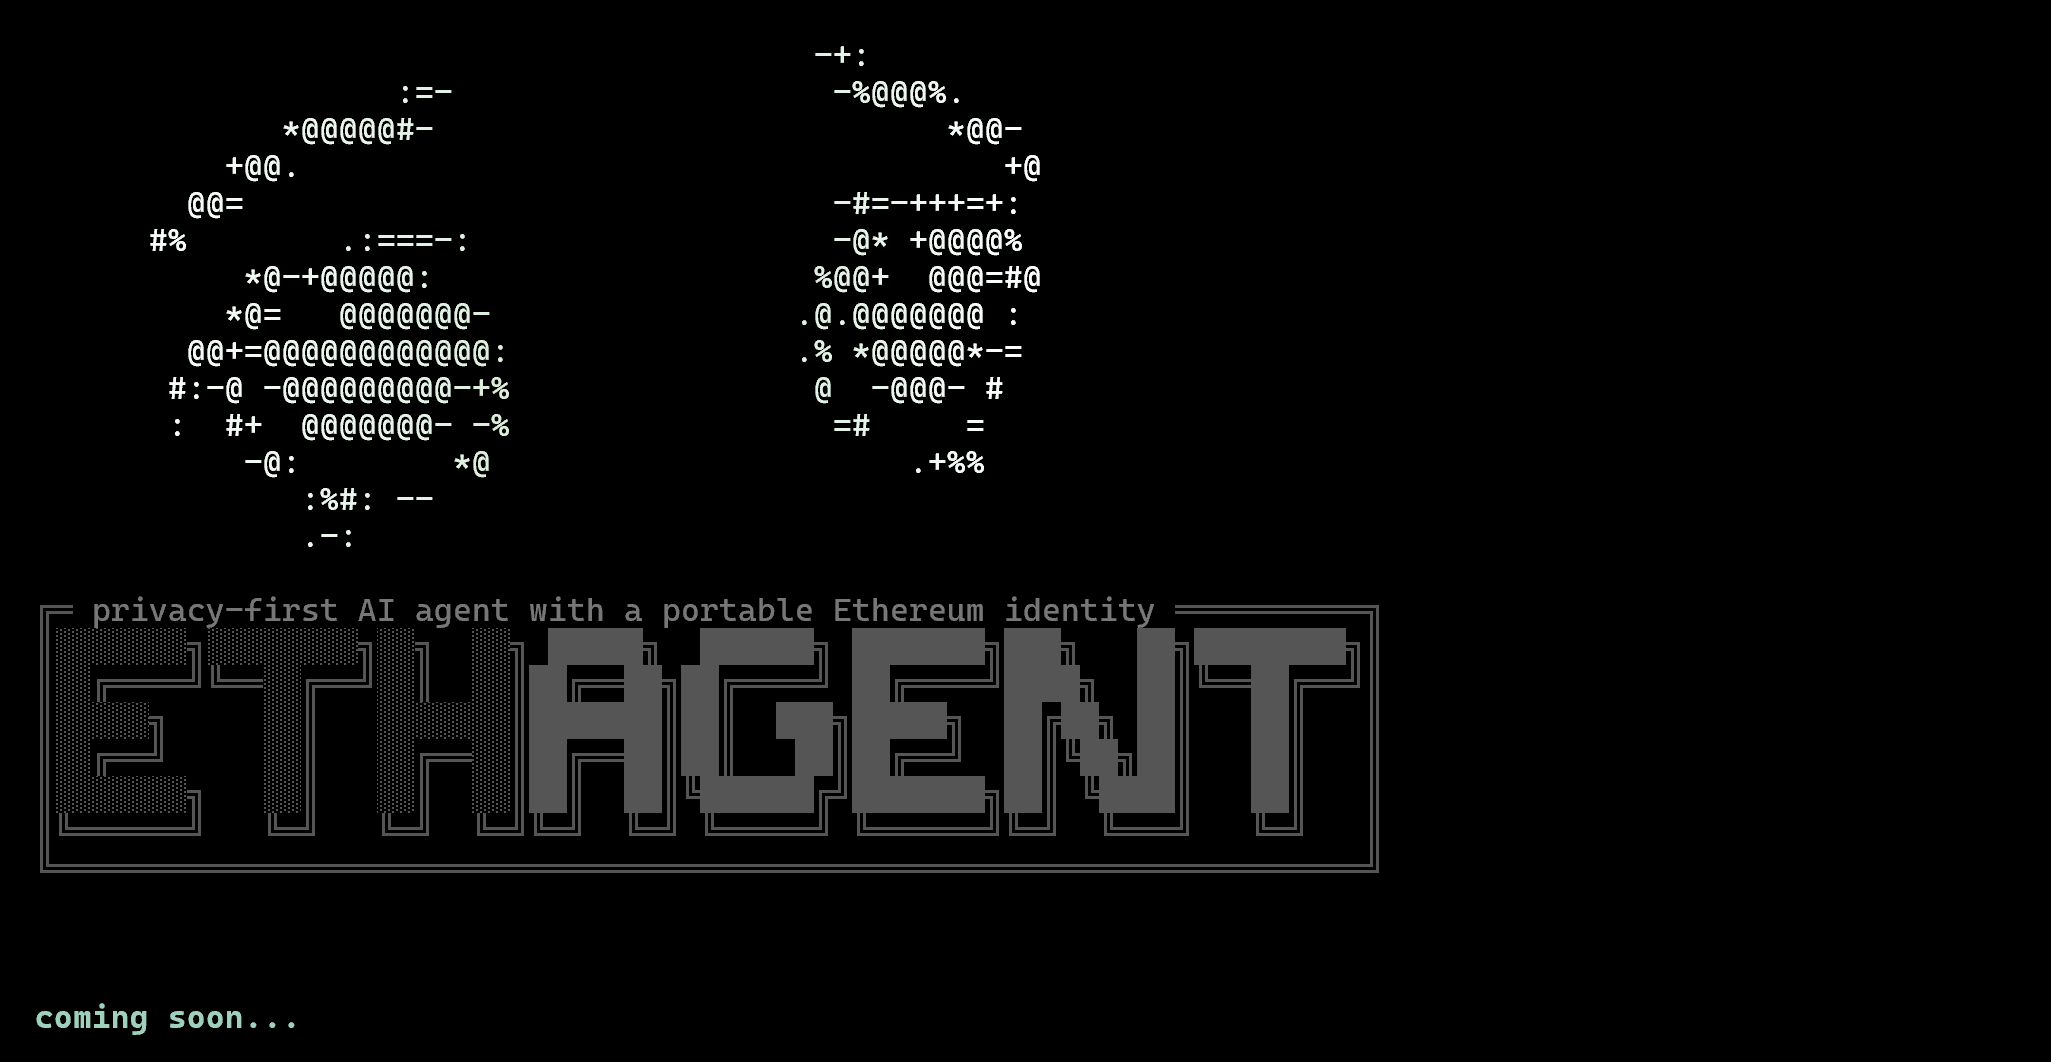
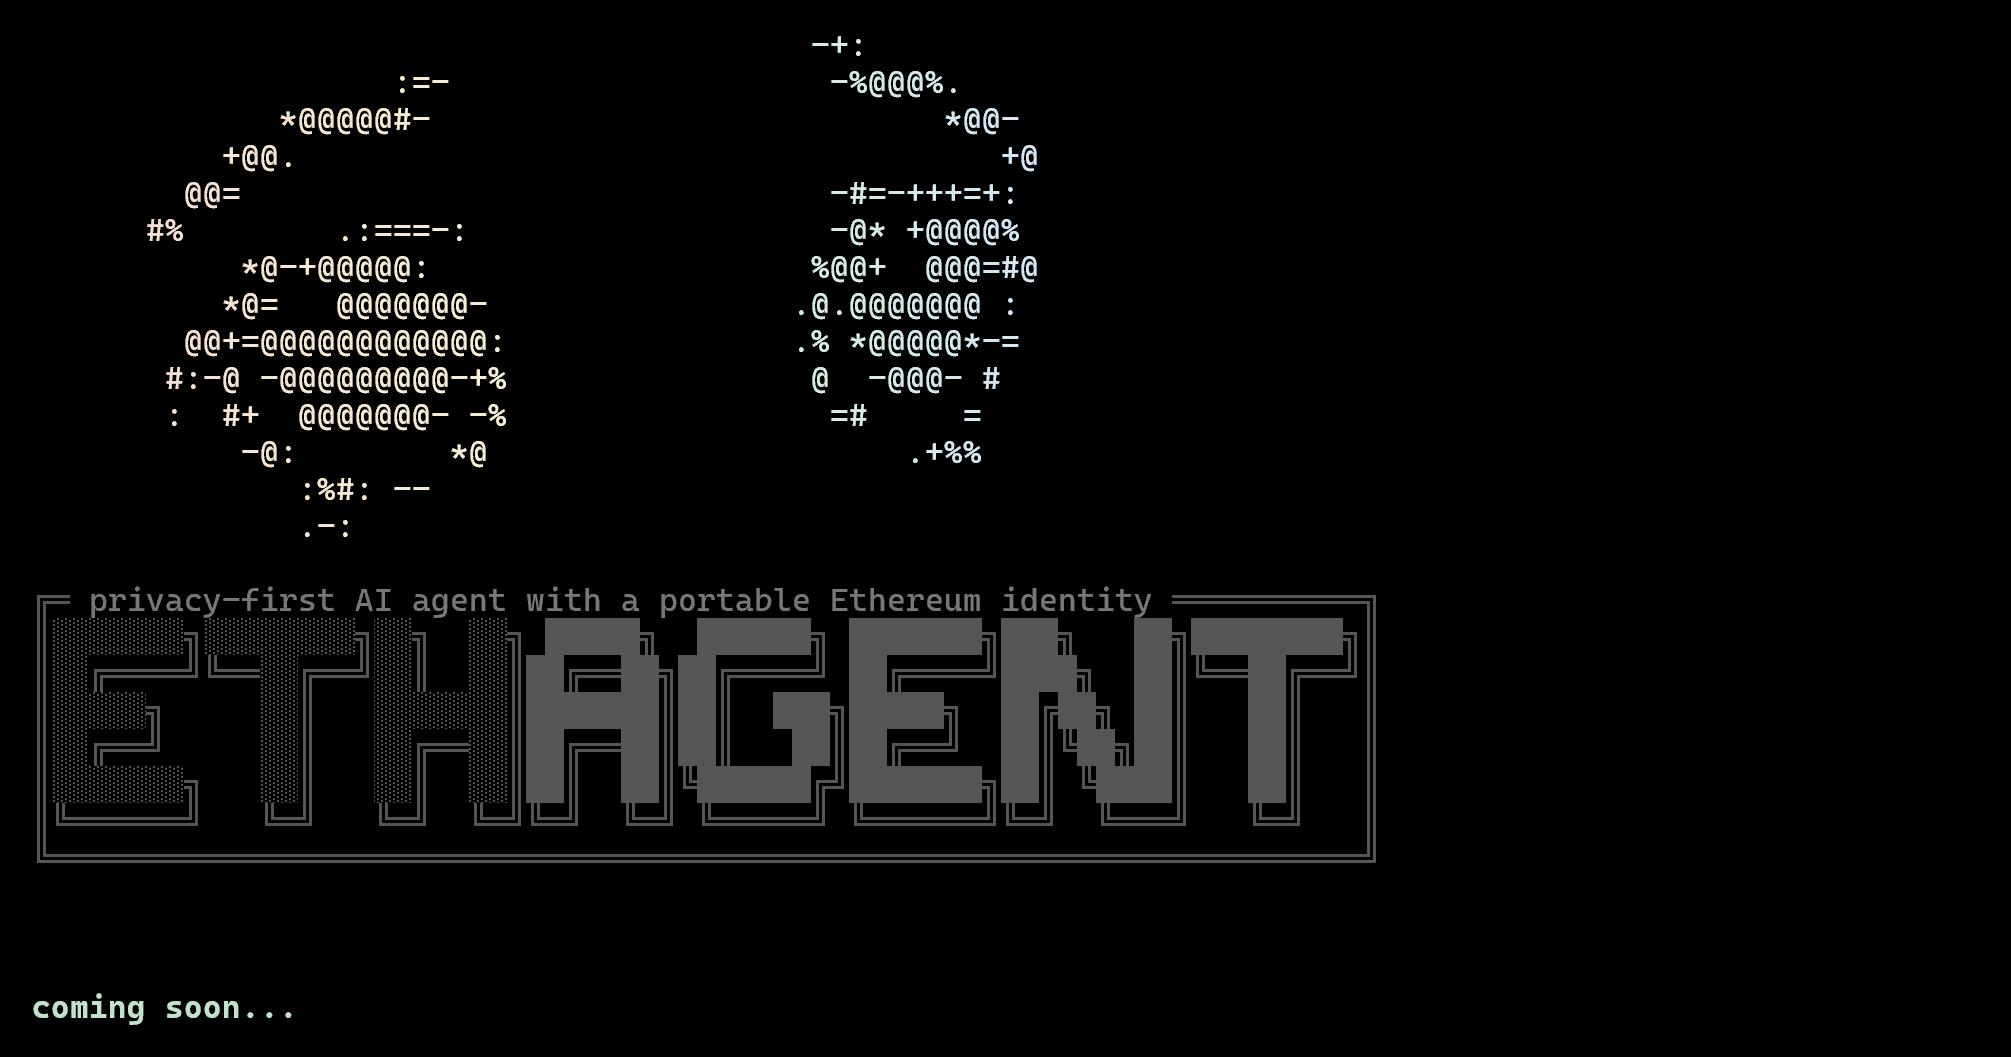
feat: add prompt queueing, shift+enter multiline input, and soften terminal theme

diff --git a/src/ui/ChatScreen.tsx b/src/ui/ChatScreen.tsx
@@ -62,6 +62,7 @@ export const ChatScreen: React.FC<ChatScreenProps> = ({ config: initialConfig, o
   const [rows, setRows] = useState<MessageRow[]>([])
   const [history, setHistory] = useState<string[]>([])
   const [streaming, setStreaming] = useState(false)
+  const [queuedInputs, setQueuedInputs] = useState<string[]>([])
   const [turns, setTurns] = useState(0)
   const [approxTokens, setApproxTokens] = useState(0)
   const [overlay, setOverlay] = useState<Overlay>('none')
@@ -83,6 +84,7 @@ export const ChatScreen: React.FC<ChatScreenProps> = ({ config: initialConfig, o
   const pendingAssistantTextRef = useRef<string | null>(null)
   const pendingThinkingTextRef = useRef<string | null>(null)
   const streamFlushTimerRef = useRef<ReturnType<typeof setTimeout> | null>(null)
+  const drainingQueueRef = useRef<boolean>(false)
 
   useEffect(() => { rowsRef.current = rows }, [rows])
   useEffect(() => { sessionIdRef.current = sessionId }, [sessionId])
@@ -129,6 +131,7 @@ export const ChatScreen: React.FC<ChatScreenProps> = ({ config: initialConfig, o
     setRows([])
     setTurns(0)
     setApproxTokens(0)
+    setQueuedInputs([])
     sessionMessagesRef.current = []
     setSessionId(newSessionId())
     setSessionKey(k => k + 1)
@@ -451,6 +454,8 @@ export const ChatScreen: React.FC<ChatScreenProps> = ({ config: initialConfig, o
     [mode, pushNote, persistSessionMessage, runCompaction],
   )
 
+  const pullInFlight = pullsRef.current.size > 0
+
   const handleSubmit = useCallback(
     async (value: string) => {
       const trimmed = value.trim()
@@ -458,6 +463,15 @@ export const ChatScreen: React.FC<ChatScreenProps> = ({ config: initialConfig, o
 
       setHistory(h => (h[h.length - 1] === value ? h : [...h, value]))
       void appendHistory(value)
+
+      if (streaming || pullInFlight) {
+        if (parseSlash(value)) {
+          pushNote('slash commands cannot be queued. wait for the current task to finish.', 'dim')
+          return
+        }
+        setQueuedInputs(prev => [...prev, value])
+        return
+      }
 
       if (parseSlash(value)) {
         const ctx = buildSlashContext()
@@ -470,7 +484,7 @@ export const ChatScreen: React.FC<ChatScreenProps> = ({ config: initialConfig, o
 
       await runStream(value)
     },
-    [buildSlashContext, pushNote, runStream],
+    [buildSlashContext, pullInFlight, pushNote, runStream, streaming],
   )
 
   const handleCancelStream = useCallback(() => {
@@ -611,12 +625,23 @@ export const ChatScreen: React.FC<ChatScreenProps> = ({ config: initialConfig, o
     pushNote('copy cancelled.', 'dim')
   }, [pushNote])
 
-  const pullInFlight = pullsRef.current.size > 0
-  const busy = streaming || pullInFlight
+  const busy = pullInFlight
   const slashSuggestions = useMemo(getSlashSuggestions, [])
 
+  useEffect(() => {
+    if (streaming || pullInFlight || queuedInputs.length === 0 || drainingQueueRef.current) return
+    drainingQueueRef.current = true
+    const next = queuedInputs[0]
+    setQueuedInputs(prev => prev.slice(1))
+    void runStream(next!).finally(() => {
+      drainingQueueRef.current = false
+    })
+  }, [pullInFlight, queuedInputs, runStream, streaming])
+
   const contextLine = `${config.provider} · ${config.model} · ${compressHome(process.cwd())}`
-  const tipLine = 'tip: type /help to get started · alt+enter for newline'
+  const tipLine = streaming
+    ? 'tip: you can keep typing and press enter to queue the next message · shift+enter for newline'
+    : 'tip: type /help to get started · shift+enter for newline'
 
   const placeholderHints = useMemo(() => {
     if (streaming) return ['streaming… esc to cancel']
@@ -688,6 +713,7 @@ export const ChatScreen: React.FC<ChatScreenProps> = ({ config: initialConfig, o
             history={history}
             disabled={busy}
             placeholderHints={placeholderHints}
+            queuedMessages={queuedInputs}
             slashSuggestions={slashSuggestions}
             footerRight={footerRight}
           />
@@ -770,4 +796,3 @@ function formatBytes(bytes: number): string {
   const kb = bytes / 1024
   return `${kb.toFixed(0)}KB`
 }
-

diff --git a/src/ui/ChatInput.tsx b/src/ui/ChatInput.tsx
@@ -10,6 +10,7 @@ type PromptInputProps = {
   history: string[]
   disabled?: boolean
   placeholderHints?: string[]
+  queuedMessages?: string[]
   prefix?: string
   slashSuggestions?: Suggestion[]
   mode?: 'prompt' | 'bash'
@@ -21,13 +22,14 @@ const MAX_LENGTH = 32_768
 const PASTE_THRESHOLD_LINES = 2
 const PLACEHOLDER_ROTATE_MS = 8000
 
-type PasteRef = { id: number; lines: string[]; preview: string }
+type PasteRef = { id: number; lines: string[] }
 
 export const ChatInput: React.FC<PromptInputProps> = ({
   onSubmit,
   history,
   disabled,
   placeholderHints,
+  queuedMessages = [],
   prefix = '\u203a',
   slashSuggestions = [],
   mode = 'prompt',
@@ -88,7 +90,7 @@ export const ChatInput: React.FC<PromptInputProps> = ({
     }
     const id = nextPasteIdRef.current++
     const preview = `[Pasted text #${id} +${lines.length - 1} lines]`
-    pasteRefsRef.current.set(id, { id, lines, preview })
+    pasteRefsRef.current.set(id, { id, lines })
     insertText(preview)
   }, [insertText])
 
@@ -191,7 +193,7 @@ export const ChatInput: React.FC<PromptInputProps> = ({
       return
     }
     if (key.upArrow) {
-      if (value.includes('\n')) {
+      if (historyIndex === null && value.includes('\n')) {
         setBuffer(prev => ({ value: prev.value, cursor: moveVertical(prev.value, prev.cursor, -1) }))
         return
       }
@@ -211,7 +213,7 @@ export const ChatInput: React.FC<PromptInputProps> = ({
       return
     }
     if (key.downArrow) {
-      if (value.includes('\n')) {
+      if (historyIndex === null && value.includes('\n')) {
         setBuffer(prev => ({ value: prev.value, cursor: moveVertical(prev.value, prev.cursor, 1) }))
         return
       }
@@ -300,6 +302,22 @@ export const ChatInput: React.FC<PromptInputProps> = ({
           ))}
         </Box>
       ) : null}
+      {queuedMessages.length > 0 ? (
+        <Box marginLeft={2} flexDirection="column">
+          <Text color={theme.dim}>
+            {queuedMessages.length === 1 ? '1 message queued for next turn' : `${queuedMessages.length} messages queued for next turns`}
+          </Text>
+          {queuedMessages.slice(0, 3).map((message, i) => (
+            <Text key={`${i}-${message.slice(0, 24)}`}>
+              <Text color={theme.accentMint}>{i === 0 ? '» ' : '  '}</Text>
+              <Text color={theme.textSubtle}>{summarizeQueuedMessage(message)}</Text>
+            </Text>
+          ))}
+          {queuedMessages.length > 3 ? (
+            <Text color={theme.dim}>+{queuedMessages.length - 3} more</Text>
+          ) : null}
+        </Box>
+      ) : null}
       {footerRight ? (
         <Box marginLeft={2}>
           {footerRight}
@@ -309,8 +327,8 @@ export const ChatInput: React.FC<PromptInputProps> = ({
   )
 }
 
-function isSoftBreak(key: { return: boolean; meta: boolean }): boolean {
-  return key.return && key.meta
+function isSoftBreak(key: { return: boolean; meta?: boolean; shift?: boolean }): boolean {
+  return key.return && Boolean(key.meta || key.shift)
 }
 
 function moveVertical(text: string, cursor: number, direction: 1 | -1): number {
@@ -361,3 +379,9 @@ function renderWithCursor(value: string, cursor: number, showCursor: boolean): R
   })
 }
 
+function summarizeQueuedMessage(text: string): string {
+  const normalized = text.replace(/\s+/g, ' ').trim()
+  if (!normalized) return ''
+  if (normalized.length <= 72) return normalized
+  return `${normalized.slice(0, 69)}...`
+}

diff --git a/src/ui/BrandSplash.tsx b/src/ui/BrandSplash.tsx
@@ -1,7 +1,28 @@
 import React from 'react'
 import { Text, Box } from 'ink'
-import { gradientColor, theme } from './theme.js'
+import { theme } from './theme.js'
+const eyePalette: Array<[number, number, number]> = [
+  [0xf5, 0xd8, 0xd8],
+  [0xf5, 0xe7, 0xcf],
+  [0xf5, 0xf0, 0xd4],
+  [0xd4, 0xee, 0xdd],
+  [0xd4, 0xe6, 0xf5],
+] as const
 
+
+function eyeGradientColor(t: number): string {
+  const s = Math.max(0, Math.min(1, t)) * (eyePalette.length - 1)
+  const i = Math.min(Math.floor(s), eyePalette.length - 2)
+  const f = s - i
+  const lo = eyePalette[i] ?? eyePalette[0]!
+  const hi = eyePalette[i + 1] ?? eyePalette[eyePalette.length - 1]!
+  const [r1, g1, b1] = lo
+  const [r2, g2, b2] = hi
+  const r = Math.round(r1 + (r2 - r1) * f)
+  const g = Math.round(g1 + (g2 - g1) * f)
+  const b = Math.round(b1 + (b2 - b1) * f)
+  return `#${r.toString(16).padStart(2, '0')}${g.toString(16).padStart(2, '0')}${b.toString(16).padStart(2, '0')}`
+}
 const eth = `░░░░░░░╗░░░░░░░░╗░░╗  ░░╗
 ░░╔════╝╚══░░╔══╝░░║  ░░║
 ░░░░░╗     ░░║   ░░░░░░░║
@@ -79,7 +100,7 @@ const Eyes = () => {
       {lines.map((line, li) => (
         <Text key={li}>
           {line.split('').map((char, ci) => (
-            <Text key={ci} color={gradientColor(ci / Math.max(maxLen - 1, 1))}>{char}</Text>
+            <Text key={ci} color={eyeGradientColor(ci / Math.max(maxLen - 1, 1))}>{char}</Text>
           ))}
         </Text>
       ))}
@@ -167,5 +188,3 @@ function truncateToFit(text: string, max: number): string {
   if (max <= 1) return text.slice(0, Math.max(0, max))
   return text.slice(0, max - 1) + '…'
 }
-
-

diff --git a/src/hooks/useDoublePress.ts b/src/hooks/useDoublePress.ts
@@ -6,7 +6,6 @@ export const DOUBLE_PRESS_TIMEOUT_MS = 800
 export function useDoublePress(
   setPending: (pending: boolean) => void,
   onDoublePress: () => void,
-  onFirstPress?: () => void,
 ): () => void {
   const lastPressRef = useRef<number>(0)
   const timeoutRef = useRef<NodeJS.Timeout | undefined>(undefined)
@@ -34,7 +33,6 @@ export function useDoublePress(
       setPending(false)
       onDoublePress()
     } else {
-      onFirstPress?.()
       setPending(true)
       clearPendingTimeout()
       timeoutRef.current = setTimeout(() => {
@@ -44,5 +42,5 @@ export function useDoublePress(
     }
 
     lastPressRef.current = now
-  }, [setPending, onDoublePress, onFirstPress, clearPendingTimeout])
+  }, [setPending, onDoublePress, clearPendingTimeout])
 }

diff --git a/src/ui/theme.ts b/src/ui/theme.ts
@@ -1,18 +1,18 @@
 export const palette: Array<[number, number, number]> = [
   [0xff, 0xff, 0xff],
-  [0xf2, 0xfa, 0xf4],
-  [0xe2, 0xf1, 0xe6],
-  [0xcf, 0xe5, 0xbd],
-  [0xe2, 0xf1, 0xe6],
+  [0xf2, 0xf9, 0xf4],
+  [0xe7, 0xf4, 0xec],
+  [0xd4, 0xee, 0xdd],
+  [0xe7, 0xf4, 0xec],
   [0xff, 0xff, 0xff],
 ]
 
 export const theme = {
-  accentPrimary: '#cfe5bd',
+  accentPrimary: '#d4eedd',
   accentWarm: '#d8cda8',
   accentNeutral: '#e4e3b5',
-  accentSecondary: '#9fd0bb',
-  accentMint: '#bcd9c9',
+  accentSecondary: '#c0e3cb',
+  accentMint: '#e7f4ec',
   accentPeach: '#e7cdb7',
   accentLavender: '#d9cae8',
   accentInfo: '#90b8e8',

diff --git a/src/ui/PreviewSplash.tsx b/src/ui/PreviewSplash.tsx
@@ -11,5 +11,3 @@ export const PreviewSplash: React.FC = () => (
     </Box>
   </Box>
 )
-
-
